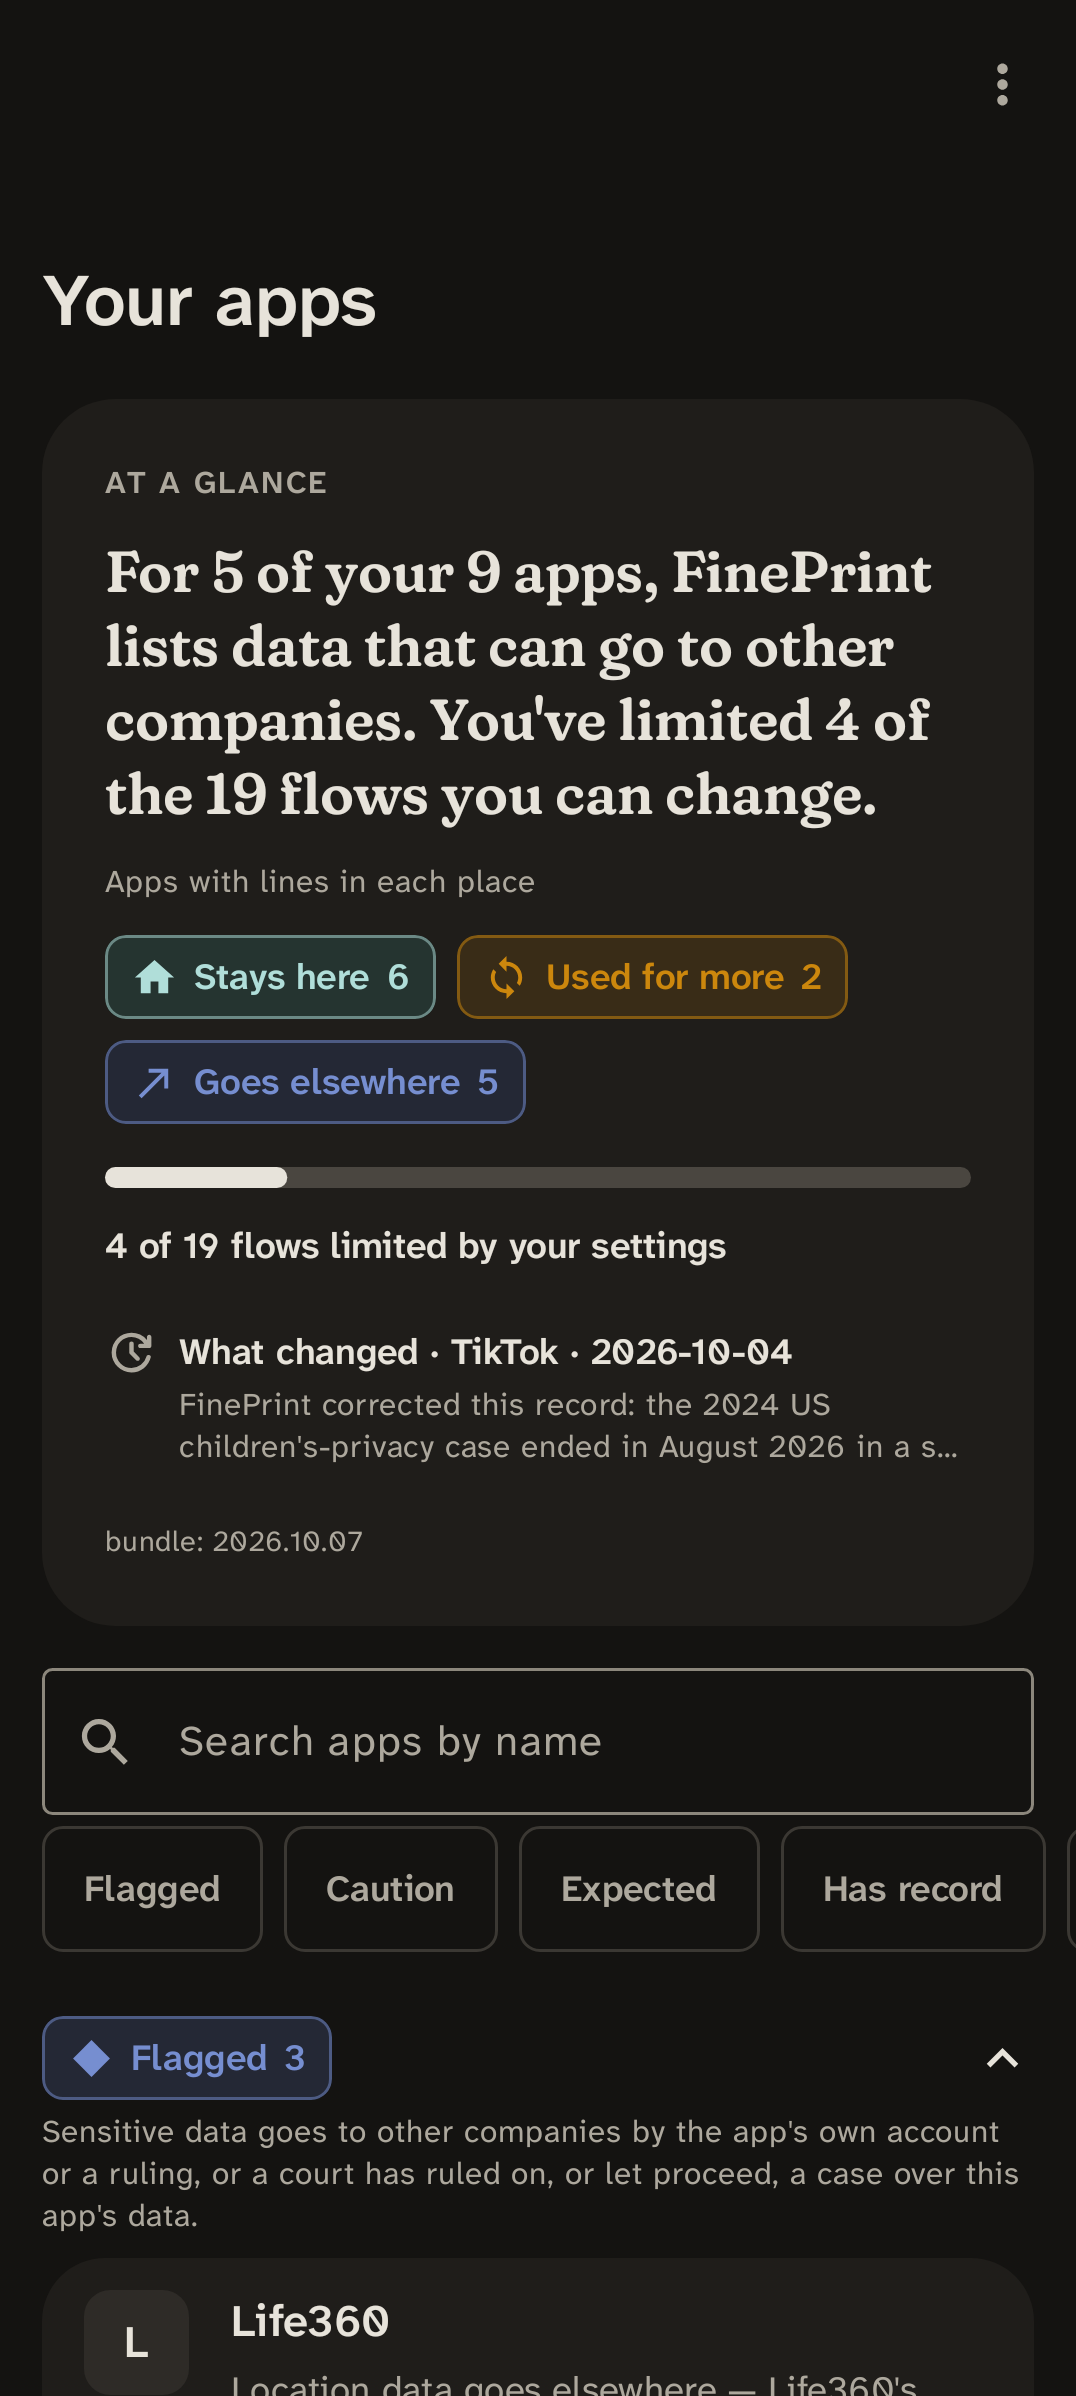
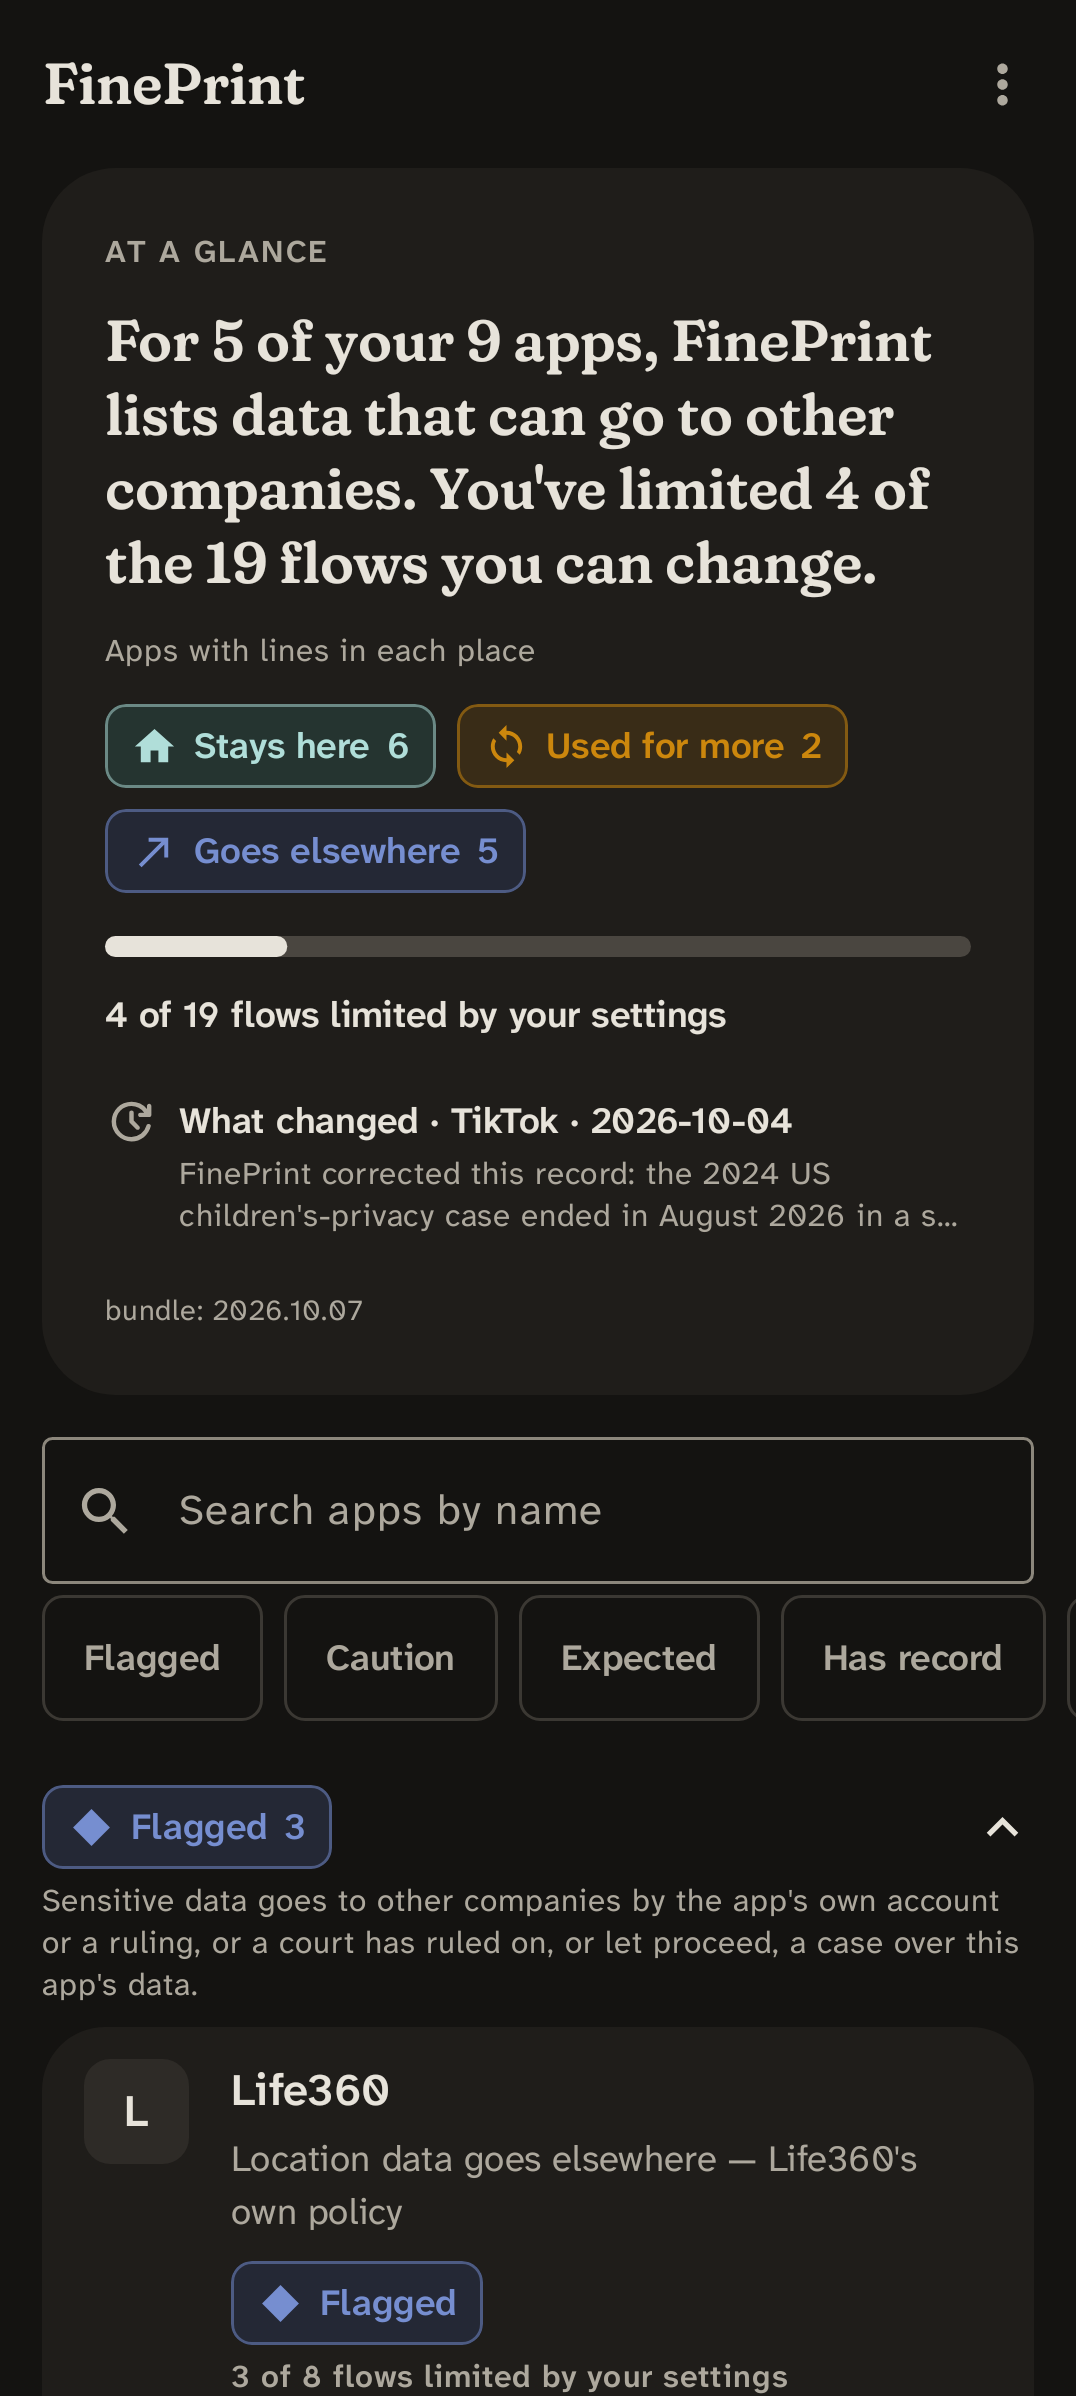
Home: a 64dp wordmark bar in place of the large app bar
The large app bar left an empty band between the status bar and the first
card. The home now has a 64dp bar that never collapses, with "FinePrint" in
Fraunces as a heading (not clickable) and the overflow menu unchanged. Only
the home shows the wordmark; the string is HOME_WORDMARK in Wording.kt.

No "Your apps" headline over search, on any size: on fineprint37 at
360 x 780 with real system bars it pushed the search field to 741dp, under
the gesture bar. Without it the field sits at 684-740dp.

HomeBarTest checks the bar's height at rest and while scrolling, At a glance
straight under it, the search field above the fold on the small phone with
the system bars counted, the wordmark at 200% text, and the order TalkBack
reads: wordmark, More options, At a glance. TalkBackOrder.kt reads that
order from the traversal chain Compose gives Android once a screen reader
is on. README home images redrawn by readmeScreenshots.

Claude-Session: https://claude.ai/code/session_016cezgH7PfKCPMWXu7PCC2T

diff --git a/android/app/src/test/java/com/longlifeio/fineprint/ui/HomeBarTest.kt b/android/app/src/test/java/com/longlifeio/fineprint/ui/HomeBarTest.kt
@@ -1,0 +1,131 @@
+package com.longlifeio.fineprint.ui
+
+import android.view.View
+import androidx.compose.foundation.lazy.rememberLazyListState
+import androidx.compose.ui.platform.LocalView
+import androidx.compose.ui.semantics.SemanticsActions
+import androidx.compose.ui.test.SemanticsMatcher
+import androidx.compose.ui.test.assert
+import androidx.compose.ui.test.getUnclippedBoundsInRoot
+import androidx.compose.ui.test.hasAnyAncestor
+import androidx.compose.ui.test.hasSetTextAction
+import androidx.compose.ui.test.hasTestTag
+import androidx.compose.ui.test.assertCountEquals
+import androidx.compose.ui.test.hasText
+import androidx.compose.ui.test.isHeading
+import androidx.compose.ui.test.junit4.createComposeRule
+import androidx.compose.ui.test.onAllNodesWithText
+import androidx.compose.ui.test.onNodeWithTag
+import androidx.compose.ui.test.onRoot
+import androidx.compose.ui.test.performScrollToIndex
+import androidx.compose.ui.test.performSemanticsAction
+import androidx.compose.ui.text.TextLayoutResult
+import androidx.compose.ui.unit.DpRect
+import androidx.compose.ui.unit.dp
+import com.longlifeio.fineprint.bundle.parseBundle
+import com.longlifeio.fineprint.design.parseFixture
+import com.longlifeio.fineprint.egress.ScanProgress
+import com.longlifeio.fineprint.egress.parseTrackerSignatures
+import com.longlifeio.fineprint.explain.HOME_WORDMARK
+import com.longlifeio.fineprint.explain.explain
+import com.longlifeio.fineprint.explain.whatYouCanDo
+import org.junit.Assert.assertEquals
+import org.junit.Assert.assertFalse
+import org.junit.Assert.assertTrue
+import org.junit.Rule
+import org.junit.Test
+import org.junit.runner.RunWith
+import org.robolectric.RobolectricTestRunner
+import org.robolectric.RuntimeEnvironment
+import org.robolectric.annotation.Config
+import org.robolectric.annotation.GraphicsMode
+import java.io.File
+
+/**
+ * The home's top, on the screenshot matrix's three sizes: a 64dp bar that never collapses, At a glance
+ * straight under it at rest and after scrolling, search straight under the card, and on the small phone
+ * the search field above the fold with the system bars counted. A "Your apps" headline over search
+ * failed that last check on the emulator, so it went (the card is never shrunk to make room). TalkBack reads
+ * the wordmark, then the menu, then At a glance.
+ */
+@RunWith(RobolectricTestRunner::class)
+@GraphicsMode(GraphicsMode.Mode.NATIVE)
+@Config(sdk = [36], qualifiers = "w411dp-h914dp-420dpi")
+class HomeBarTest {
+
+    @get:Rule val compose = createComposeRule()
+
+    private val bundle = parseBundle(File("../../bundle/bundle.json").readText(), File("../../bundle/jurisdictions.json").readText())
+    private val signatures = parseTrackerSignatures(File("src/main/assets/trackers.json").readText()).trackers.associateBy { it.id }
+    private val fixture = parseFixture(File("src/debug/assets/scan-fixture.json").readText())
+    private val apps = fixture.first
+    private val explanations = apps.associate { it.packageName to explain(it, fixture.second[it.scanKey], bundle, signatures) }
+    private val checks = apps.associate {
+        it.packageName to whatYouCanDo(it, explanations.getValue(it.packageName), bundle.apps[it.packageName], bundle.permissions.mapValues { p -> p.value.feeds }, emptySet())
+    }
+
+    private fun home(onView: (View) -> Unit = {}) = compose.setContent {
+        onView(LocalView.current)
+        AppListScreen(
+            apps = apps, explanations = explanations, reviews = emptyMap(), checks = checks, results = fixture.second, progress = ScanProgress(),
+            includeSystem = false, onIncludeSystemChange = {}, onOpen = {}, listState = rememberLazyListState(),
+            bundleLine = "bundle: ${bundle.version}", onAbout = {}, onHowToRead = {},
+            openSections = OpenSections({ _, default -> default }, { _, _ -> }),
+        )
+    }
+
+    private fun bounds(matcher: SemanticsMatcher): DpRect = compose.onNode(matcher).getUnclippedBoundsInRoot()
+    private val bar get() = bounds(hasTestTag("bar"))
+    private val glance get() = bounds(hasTestTag("glance"))
+    private val search get() = bounds(hasSetTextAction())
+
+    private fun theTop() {
+        home()
+        val atRest = bar
+        assertEquals("bar height", 64f, (atRest.bottom - atRest.top).value, 0.5f)
+        assertEquals("At a glance starts where the bar ends", atRest.bottom.value, glance.top.value, 0.5f)
+        assertEquals("search under the card", 16f, (search.top - glance.bottom).value, 0.5f)
+        compose.onAllNodesWithText("Your apps").assertCountEquals(0)
+        compose.onNodeWithTag("list").performScrollToIndex(6)
+        assertEquals("the bar neither grows nor collapses while scrolling", atRest, bar)
+    }
+
+    @Test fun phone() = theTop()
+
+    @Test @Config(qualifiers = "w800dp-h1280dp-xhdpi") fun tablet() = theTop()
+
+    @Test @Config(qualifiers = "w360dp-h780dp-xxhdpi") fun smallPhone() {
+        theTop()
+        compose.onNodeWithTag("list").performScrollToIndex(0)
+        // Robolectric draws no system bars. fineprint37 at 360 × 780 has a 43dp status bar over the app
+        // and a 24dp gesture bar under it (dumpsys window), so the field needs that much room here.
+        val fold = compose.onRoot().getUnclippedBoundsInRoot().bottom - 67.dp
+        assertTrue("the search field ends ${(search.bottom - fold).value}dp below the fold on 360 × 780", search.bottom <= fold)
+    }
+
+    @Test fun atTwiceTheTextTheWordmarkStillFitsTheBar() {
+        RuntimeEnvironment.setFontScale(2f)
+        home()
+        val wordmark = hasText(HOME_WORDMARK) and hasAnyAncestor(hasTestTag("bar"))
+        val layouts = mutableListOf<TextLayoutResult>()
+        compose.onNode(wordmark).performSemanticsAction(SemanticsActions.GetTextLayoutResult) { it(layouts) }
+        // didOverflowWidth is no use here: the bar lays the title out at its full width, so it's set even at 100%.
+        val text = layouts.single()
+        assertEquals("one line", 1, text.lineCount)
+        assertFalse("taller than its box", text.didOverflowHeight)
+        assertTrue("glyphs past the box's right edge", text.getLineRight(0) <= text.size.width)
+        val word = bounds(wordmark)
+        assertTrue("the wordmark sits inside the bar", word.top >= bar.top && word.bottom <= bar.bottom)
+    }
+
+    @Test fun theWordmarkIsAHeadingInTheBarAndTheBarIsReadFirst() {
+        pretendAScreenReaderIsOn()
+        lateinit var view: View
+        home { view = it }
+        compose.onNode(hasText(HOME_WORDMARK) and hasAnyAncestor(hasTestTag("bar")))
+            .assert(isHeading())
+            .assert(SemanticsMatcher.keyNotDefined(SemanticsActions.OnClick))
+        // The list under the bar also starts at the top of the screen; TalkBack still starts in the bar.
+        assertEquals(listOf(HOME_WORDMARK, "More options", "At a glance"), talkBackOrder(view, compose).take(3))
+    }
+}

diff --git a/android/app/src/main/java/com/longlifeio/fineprint/ui/AppListScreen.kt b/android/app/src/main/java/com/longlifeio/fineprint/ui/AppListScreen.kt
@@ -20,12 +20,12 @@ import androidx.compose.material3.ExperimentalMaterial3Api
 import androidx.compose.material3.FilterChip
 import androidx.compose.material3.Icon
 import androidx.compose.material3.IconButton
-import androidx.compose.material3.LargeTopAppBar
 import androidx.compose.material3.LinearProgressIndicator
 import androidx.compose.material3.MaterialTheme
 import androidx.compose.material3.OutlinedTextField
 import androidx.compose.material3.Scaffold
 import androidx.compose.material3.Text
+import androidx.compose.material3.TopAppBar
 import androidx.compose.material3.TopAppBarDefaults
 import androidx.compose.runtime.Composable
 import androidx.compose.runtime.getValue
@@ -37,14 +37,17 @@ import androidx.compose.runtime.saveable.listSaver
 import androidx.compose.runtime.saveable.rememberSaveable
 import androidx.compose.ui.Alignment
 import androidx.compose.ui.Modifier
-import androidx.compose.ui.input.nestedscroll.nestedScroll
 import androidx.compose.ui.platform.testTag
 import androidx.compose.ui.res.painterResource
+import androidx.compose.ui.semantics.heading
+import androidx.compose.ui.semantics.semantics
+import androidx.compose.ui.semantics.traversalIndex
 import com.longlifeio.fineprint.R
 import com.longlifeio.fineprint.egress.InstalledApp
 import com.longlifeio.fineprint.egress.ScanProgress
 import com.longlifeio.fineprint.egress.TrackerScanResult
 import com.longlifeio.fineprint.explain.Explanation
+import com.longlifeio.fineprint.explain.HOME_WORDMARK
 import com.longlifeio.fineprint.explain.ListFilter
 import com.longlifeio.fineprint.explain.TIER_SECTIONS
 import com.longlifeio.fineprint.explain.WhatYouCanDo
@@ -55,9 +58,10 @@ import com.longlifeio.fineprint.explain.systemGroups
 import com.longlifeio.fineprint.review.ReviewView
 
 /**
- * The home (G5): "At a glance" first, then search and filters, then your apps in four tier sections
- * (or, with System on, grouped by maker), and the ad tile that knows nothing about you. Drawn in the
- * Field notes design system; [openSections] keeps which sections you've opened.
+ * The home (G5): the wordmark bar, "At a glance", then search and filters, then your apps in four tier
+ * sections (or, with System on, grouped by maker), and the ad tile that knows nothing about you. Drawn
+ * in the Field notes design system; [openSections] keeps which sections you've opened. No "Your apps"
+ * headline over search: on a 360 × 780 phone it pushed the search field below the fold.
  */
 @OptIn(ExperimentalMaterial3Api::class)
 @Composable
@@ -90,16 +94,16 @@ fun AppListScreen(
     val summary = remember(installed, explanations, checks) { glance(installed, explanations, checks) }
     val latest = remember(installed, explanations) { latestChange(installed, explanations) }
     val p = LocalPalette.current
-    val bar = TopAppBarDefaults.exitUntilCollapsedScrollBehavior()
     Scaffold(
-        modifier = Modifier.nestedScroll(bar.nestedScrollConnection),
         containerColor = p.surface,
         topBar = {
-            LargeTopAppBar(
-                title = { Text("Your apps") },
+            // 64dp and never collapsing, so nothing empty sits over the first card. The list under it
+            // starts at the same top, so the bar is put first for TalkBack: wordmark, menu, then the list.
+            TopAppBar(
+                title = { Text(HOME_WORDMARK, style = MaterialTheme.typography.titleLarge.copy(fontFamily = Fraunces), color = p.ink, modifier = Modifier.semantics { heading() }) },
                 actions = { OverflowMenu(includeSystem, onIncludeSystemChange, onAbout, onHowToRead) },
-                scrollBehavior = bar,
                 colors = TopAppBarDefaults.topAppBarColors(containerColor = p.surface, scrolledContainerColor = p.surface),
+                modifier = Modifier.testTag("bar").semantics { traversalIndex = -1f },
             )
         },
     ) { padding ->
@@ -112,7 +116,7 @@ fun AppListScreen(
         }
         CentredList(padding, Modifier.testTag("list"), listState, extraBottom = Space.xxl) {
             if (progress.running) item(key = "progress") { ScanProgressLine(progress) }
-            item(key = "glance") { AtAGlance(summary, latest, bundleLine, onOpen, Modifier.padding(horizontal = Space.screen)) }
+            item(key = "glance") { AtAGlance(summary, latest, bundleLine, onOpen, Modifier.padding(horizontal = Space.screen).testTag("glance")) }
             item(key = "search") { SearchAndFilters(query, { query = it }, filters, { filters = it }, includeSystem) }
             if (visible.isEmpty()) item(key = "none") { Note("No apps match.") }
             val row = @Composable { app: InstalledApp, index: Int, count: Int ->

diff --git a/android/app/src/test/java/com/longlifeio/fineprint/ui/TalkBackOrder.kt b/android/app/src/test/java/com/longlifeio/fineprint/ui/TalkBackOrder.kt
@@ -1,0 +1,44 @@
+package com.longlifeio.fineprint.ui
+
+import android.accessibilityservice.AccessibilityServiceInfo
+import android.content.Context
+import android.view.View
+import android.view.accessibility.AccessibilityManager
+import androidx.compose.ui.semantics.SemanticsProperties
+import androidx.compose.ui.semantics.getOrNull
+import androidx.compose.ui.test.SemanticsMatcher
+import androidx.compose.ui.test.junit4.ComposeTestRule
+import androidx.test.core.app.ApplicationProvider
+import org.robolectric.Shadows.shadowOf
+
+// TalkBack's order in a Robolectric test, as Compose hands it to Android: once a screen reader is on, Compose
+// links every node to the one read after it (in traversalBefore, and in this extra for tests). Reading that
+// chain from its first node gives the order a swipe-right walk takes; live TalkBack is a release-time check.
+private const val READ_BEFORE = "android.view.accessibility.extra.EXTRA_DATA_TEST_TRAVERSALBEFORE_VAL"
+
+/** Call before setContent: Compose works the order out only while a screen reader is running. */
+fun pretendAScreenReaderIsOn() {
+    val manager = shadowOf(ApplicationProvider.getApplicationContext<Context>().getSystemService(AccessibilityManager::class.java))
+    manager.setEnabledAccessibilityServiceList(listOf(AccessibilityServiceInfo()))
+    manager.setEnabled(true)
+    manager.setTouchExplorationEnabled(true)
+}
+
+/** What a walk through [view] reads, in order: each stop's text, or its content description when it has no text. */
+fun talkBackOrder(view: View, compose: ComposeTestRule): List<String> {
+    val provider = view.accessibilityNodeProvider
+    val any = SemanticsMatcher("any node") { true }
+    val ids = compose.onAllNodes(any, useUnmergedTree = true).fetchSemanticsNodes().map { it.id }
+    val next = ids.mapNotNull { id -> provider.createAccessibilityNodeInfo(id)?.extras?.getInt(READ_BEFORE, -1)?.takeIf { it != -1 }?.let { id to it } }.toMap()
+    // A stop's words come from the merged tree, as TalkBack gathers a button's from its icon.
+    val stops = compose.onAllNodes(any).fetchSemanticsNodes().associateBy { it.id }
+    var at: Int? = next.keys.single { it !in next.values }
+    val words = mutableListOf<String>()
+    while (at != null) {
+        val config = stops[at]?.config
+        val said = config?.getOrNull(SemanticsProperties.Text)?.joinToString(" ") ?: config?.getOrNull(SemanticsProperties.ContentDescription)?.joinToString(" ")
+        said?.takeIf { it.isNotBlank() }?.let(words::add)
+        at = next[at]
+    }
+    return words
+}

diff --git a/android/app/src/main/java/com/longlifeio/fineprint/explain/Wording.kt b/android/app/src/main/java/com/longlifeio/fineprint/explain/Wording.kt
@@ -47,6 +47,8 @@ val SOURCES = SectionText("Sources", "Every number on this page is one of these,
 /** The top of an app's page, when its store description is on record. */
 val THEIR_WORDS = SectionText("Their words", "The app's own short description on its Google Play listing, word for word.")
 val THE_FINE_PRINT = SectionText("The fine print", "At most four of FinePrint's own lines, chosen the same way for every app.")
+/** The home's bar: the product's name, shown on no other screen. */
+const val HOME_WORDMARK = "FinePrint"
 
 const val STAYS_HERE = "stays_here"
 const val USED_FOR_MORE = "used_for_more"
